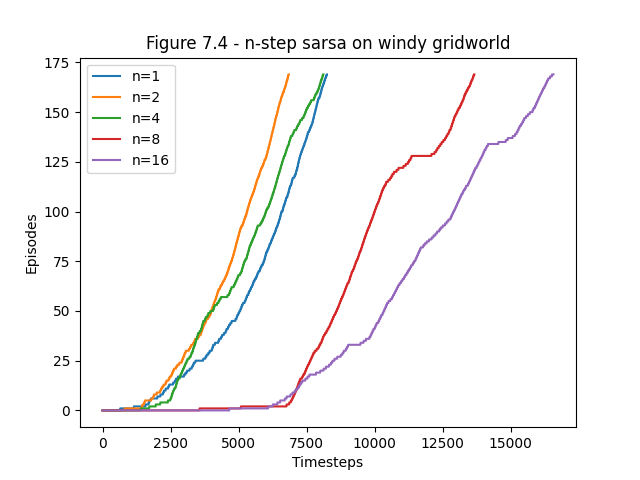
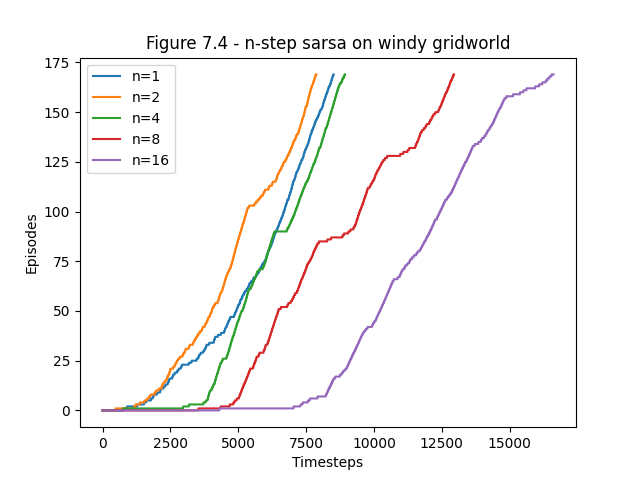
off policy nstep sarsa compiles but doesn't learn afer 100 episodes

diff --git a/chapter7/figures.py b/chapter7/figures.py
@@ -5,6 +5,7 @@ import numpy as np
 from randomwalk import RandomWalk, EMPTY_MOVE
 from windy_gridworld import WindyGridworld
 from nstep_sarsa import nStepSarsa
+from off_pol_nstep_sarsa import OffPolnStepSarsa
 
 UND = 1
 FIG_7_2_N_EP = 10
@@ -17,6 +18,9 @@ EX_7_3_N_STATES = 5
 FIG_7_4_STEPSIZE = 0.5
 FIG_7_4_N_EP = 170
 FIG_7_4_MAX_N = 16
+SECTION_7_3_STEPSIZE = 0.01
+SECTION_7_3_N_EP_TRAIN = 100
+SECTION_7_3_MAX_N = 2
 
 def run_random_walks(ax, ex_7_2=False, show=True, extra_label='', dashed=False, n_runs=FIG_7_2_N_RUNS, n_states=FIG_7_2_N_STATES, left_rew=-1, true_vals=None, V_init=None):
   n_l = [2 ** k for k in range(int(np.log(FIG_7_2_MAX_N) / np.log(2)) + 1)]
@@ -91,27 +95,38 @@ def ex_7_3():
   plt.savefig('plots/ex7.3.png')
   plt.show()
 
-def fig_7_4():
+def run_alg(alg, title, filename, n_ep, k_min, n_max):
   fig, ax = plt.subplots()
-  ax.set_title('Figure 7.4 - n-step sarsa on windy gridworld')
-  env = WindyGridworld()
-  n_l = [2 ** k for k in range(int(np.log(FIG_7_4_MAX_N) / np.log(2)) + 1)]
-  alg = nStepSarsa(env, step_size=FIG_7_4_STEPSIZE, gamma=UND, n=None)
+  ax.set_title(title)
+  n_l = [2 ** k for k in range(k_min, int(np.log(n_max) / np.log(2)) + 1)]
+  print(n_l)
+  alg.seed(0)
   for n in n_l:
     alg.n = n
     alg.reset()
-    plt.plot(alg.pol_eval(n_ep=FIG_7_4_N_EP), label=f'n={n}')
+    plt.plot(alg.pol_eval(n_ep), label=f'n={n}')
   ax.set_xlabel('Timesteps')
   ax.set_ylabel('Episodes')
   plt.legend()
-  plt.savefig('plots/fig7.4.png')
+  plt.savefig(filename)
   plt.show()
+
+def fig_7_4():
+  env = WindyGridworld()
+  alg = nStepSarsa(env, step_size=FIG_7_4_STEPSIZE, gamma=UND, n=None)
+  run_alg(alg, 'Figure 7.4 - n-step sarsa on windy gridworld', 'plots/fig7.4.png', FIG_7_4_N_EP, 0, FIG_7_4_MAX_N)
+
+def section_7_3():
+  env = WindyGridworld()
+  alg = OffPolnStepSarsa(env, b=None, step_size=SECTION_7_3_STEPSIZE, gamma=UND, n=None)
+  run_alg(alg, 'off-policy n-step sarsa on windy gridworld', 'plots/section7.3.png', SECTION_7_3_N_EP_TRAIN, 1, SECTION_7_3_MAX_N)
 
 PLOT_FUNCTION = {
   'ex7.2': ex_7_2,
   '7.2': fig_7_2,
   'ex7.3': ex_7_3,
   '7.4': fig_7_4,
+  'section7.3': section_7_3,
 }
 
 def main():

diff --git a/chapter7/off_pol_nstep_sarsa.py b/chapter7/off_pol_nstep_sarsa.py
@@ -1,0 +1,58 @@
+from nstep_sarsa import nStepSarsa
+import numpy as np
+
+class OffPolnStepSarsa(nStepSarsa):
+  def __init__(self, env, b=None, step_size=0.1, gamma=0.9, n=1, eps=0.1):
+    super().__init__(env, step_size, gamma, n, eps)
+    self.b = self.uniform_pol() if b is None else b
+    assert(self.is_soft(self.b))
+    assert(0 < self.step_size <= 1)
+    assert(n is None or n >= 2)
+
+  def is_soft(self, pol):
+    for s in self.env.states:
+      for a in self.env.moves_d[s]:
+        if pol[(a, s)] == 0:
+          return False
+    return True 
+
+  def uniform_pol(self):
+    return {(a, s): 1 / len(self.env.moves_d[s]) for s in self.env.states for a in self.env.moves_d[s]}
+
+  def pol_eval(self, n_ep_train=100, pi=None, n_ep_test=170):
+    pi_learned = pi is None
+    n, R, S, Q, A = self.n, self.R, self.S, self.Q, self.A
+    ro = np.ones(n - 1)
+    self.pi = self.initialize_pi() if pi_learned else pi
+    ep_per_t = [] 
+    for ep in range(n_ep_train):
+      print(f"ep #{ep}")
+      S[0] = self.env.reset()
+      A[0] = self.sample_action(self.pi, S[0])
+      T = np.inf
+      t = 0
+      while True:
+        ep_per_t.append(ep)
+        tm, tp1m = t % (n + 1), (t + 1) % (n + 1)
+        if t < T:
+          S[tp1m], R[tp1m], d, _ = self.env.step(A[tm])
+          if d:
+            T = t + 1
+          else:
+            A[tp1m] = self.sample_action(self.b, S[tp1m])
+            ro[(t + 1) % (n - 1)] = self.pi[(A[tp1m], S[tp1m])] / self.b[(A[tp1m], S[tp1m])]
+        tau = t - n + 1
+        if tau >= 0:
+          if tau + n > T:
+            ro[(tau + n - 1) % (n - 1)] = 1 
+          is_ratio = ro.prod()
+          G = self.n_step_return_q(tau, T)
+          taum = tau % (n + 1)
+          s, a = S[taum], A[taum]
+          Q[(s, a)] += self.step_size * is_ratio * (G - Q[(s, a)])
+          if pi_learned:
+            self.update_pi(s)
+        if tau == (T - 1):
+          break
+        t += 1
+    return super().pol_eval(n_ep_test, self.pi)

diff --git a/chapter7/nstep_sarsa.py b/chapter7/nstep_sarsa.py
@@ -3,7 +3,7 @@ import numpy as np
 import time
 
 class nStepSarsa(nStepTD):
-  def __init__(self, env, step_size, gamma=0.9, n=1, eps=0.1): 
+  def __init__(self, env, step_size=0.1, gamma=0.9, n=1, eps=0.1): 
     super().__init__(env, None, step_size, gamma, n)
     self.update_pi = self.update_policy(eps)
     self.reset()
@@ -13,7 +13,11 @@ class nStepSarsa(nStepTD):
       if np.random.random() < eps:
         return self.random_move(s)
       q_arr = np.array([self.Q[(s, a)] for a in self.env.moves_d[s]])
-      return self.env.moves_d[s][np.random.choice(np.flatnonzero(q_arr == q_arr.max()))]
+      try:
+        move = self.env.moves_d[s][np.random.choice(np.flatnonzero(q_arr == q_arr.max()))]
+      except:
+        import ipdb; ipdb.set_trace()
+      return move 
     return eps_gre_pol
  
   def update_policy(self, eps):
